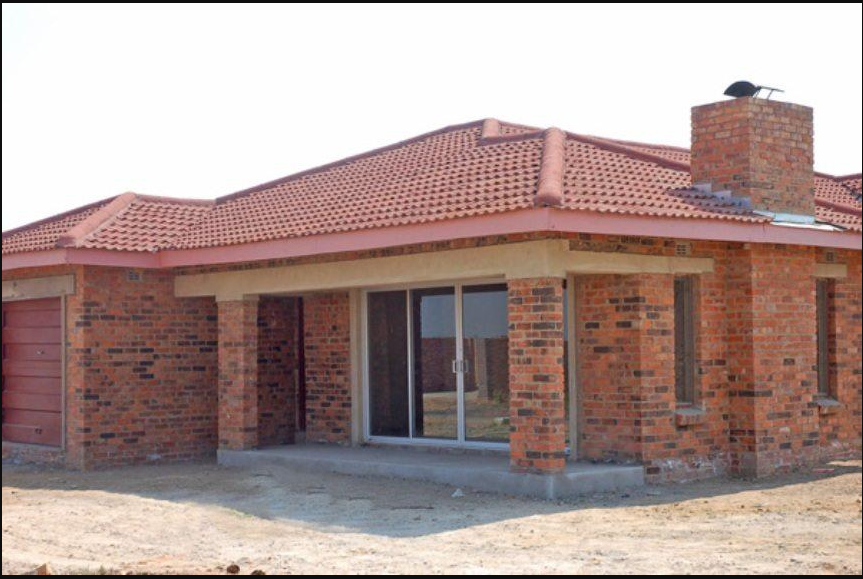
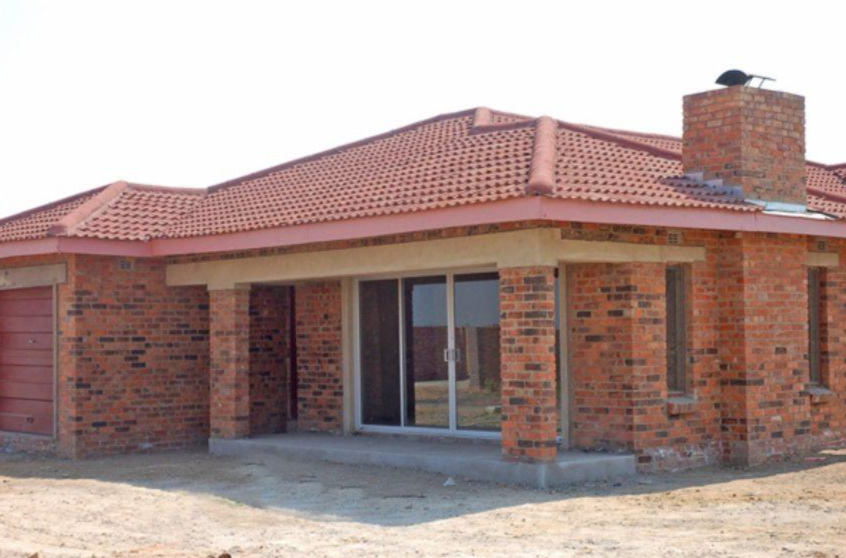
Changed images

Changed region(s): [[0.0, 0.1219, 1.0, 1.0], [0.0, 0.0, 1.0, 0.0305], [0.461, 0.8226, 0.5225, 0.853]]

diff --git a/frontend/src/pages/Home.jsx b/frontend/src/pages/Home.jsx
@@ -75,8 +75,8 @@ function Grain() {
 export default function Home() {
   const slides = [
     "https://images.unsplash.com/photo-1600607688969-a5bfcd646154?auto=format&fit=crop&q=80",
-    "https://images.unsplash.com/photo-1503387762-592deb58ef4e?auto=format&fit=crop&q=80",
-    "/images/roof6.jpeg",
+    "/images/roof4.jpeg",
+    "/images/roof5.jpeg",
   ];
 
   const [currentSlide, setCurrentSlide] = useState(0);
@@ -412,7 +412,7 @@ export default function Home() {
             >
               <div className="overflow-hidden rounded-lg shadow-xl group">
                 <img
-                  src="/images/roof5.jpeg"
+                  src="/images/roof6.jpeg"
                   alt="Roofing Materials"
                   className="w-full h-[280px] sm:h-[360px] lg:h-[520px] object-cover transition-transform duration-700 ease-out group-hover:scale-105"
                 />
